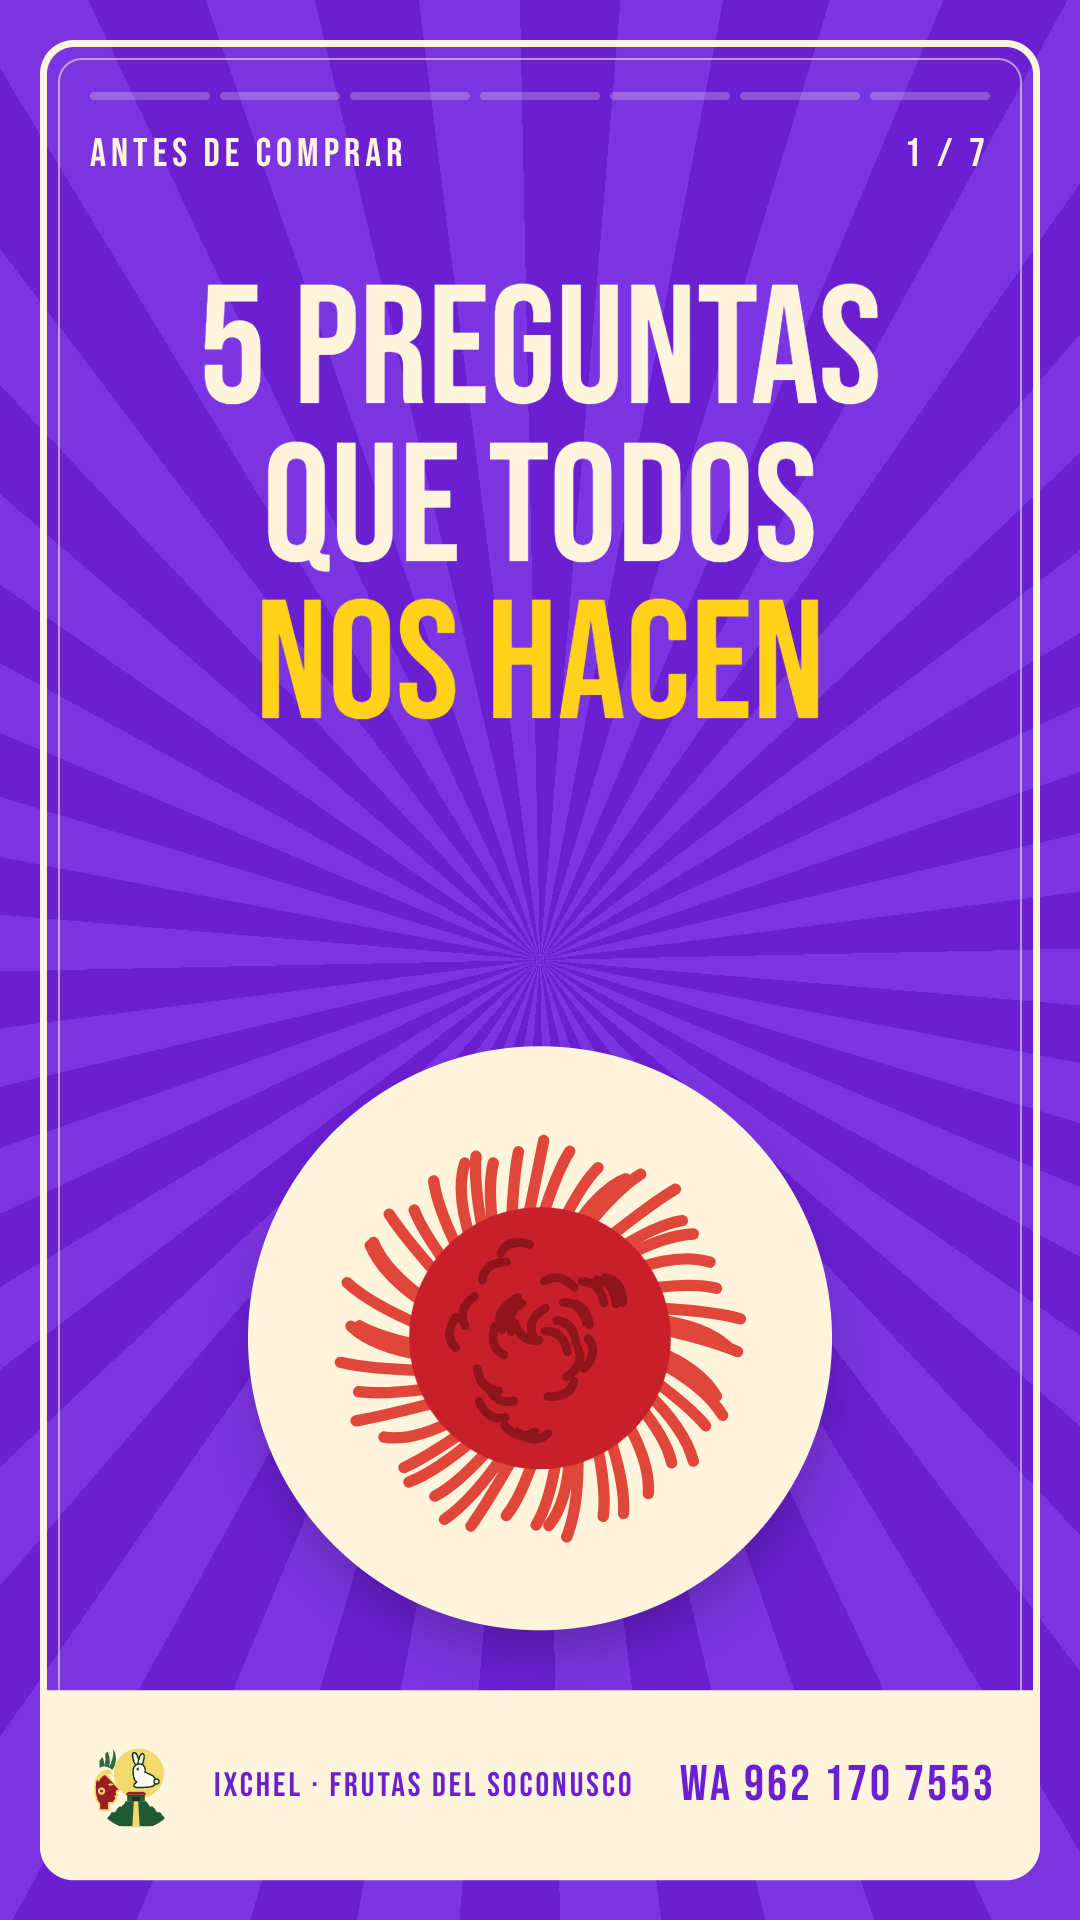
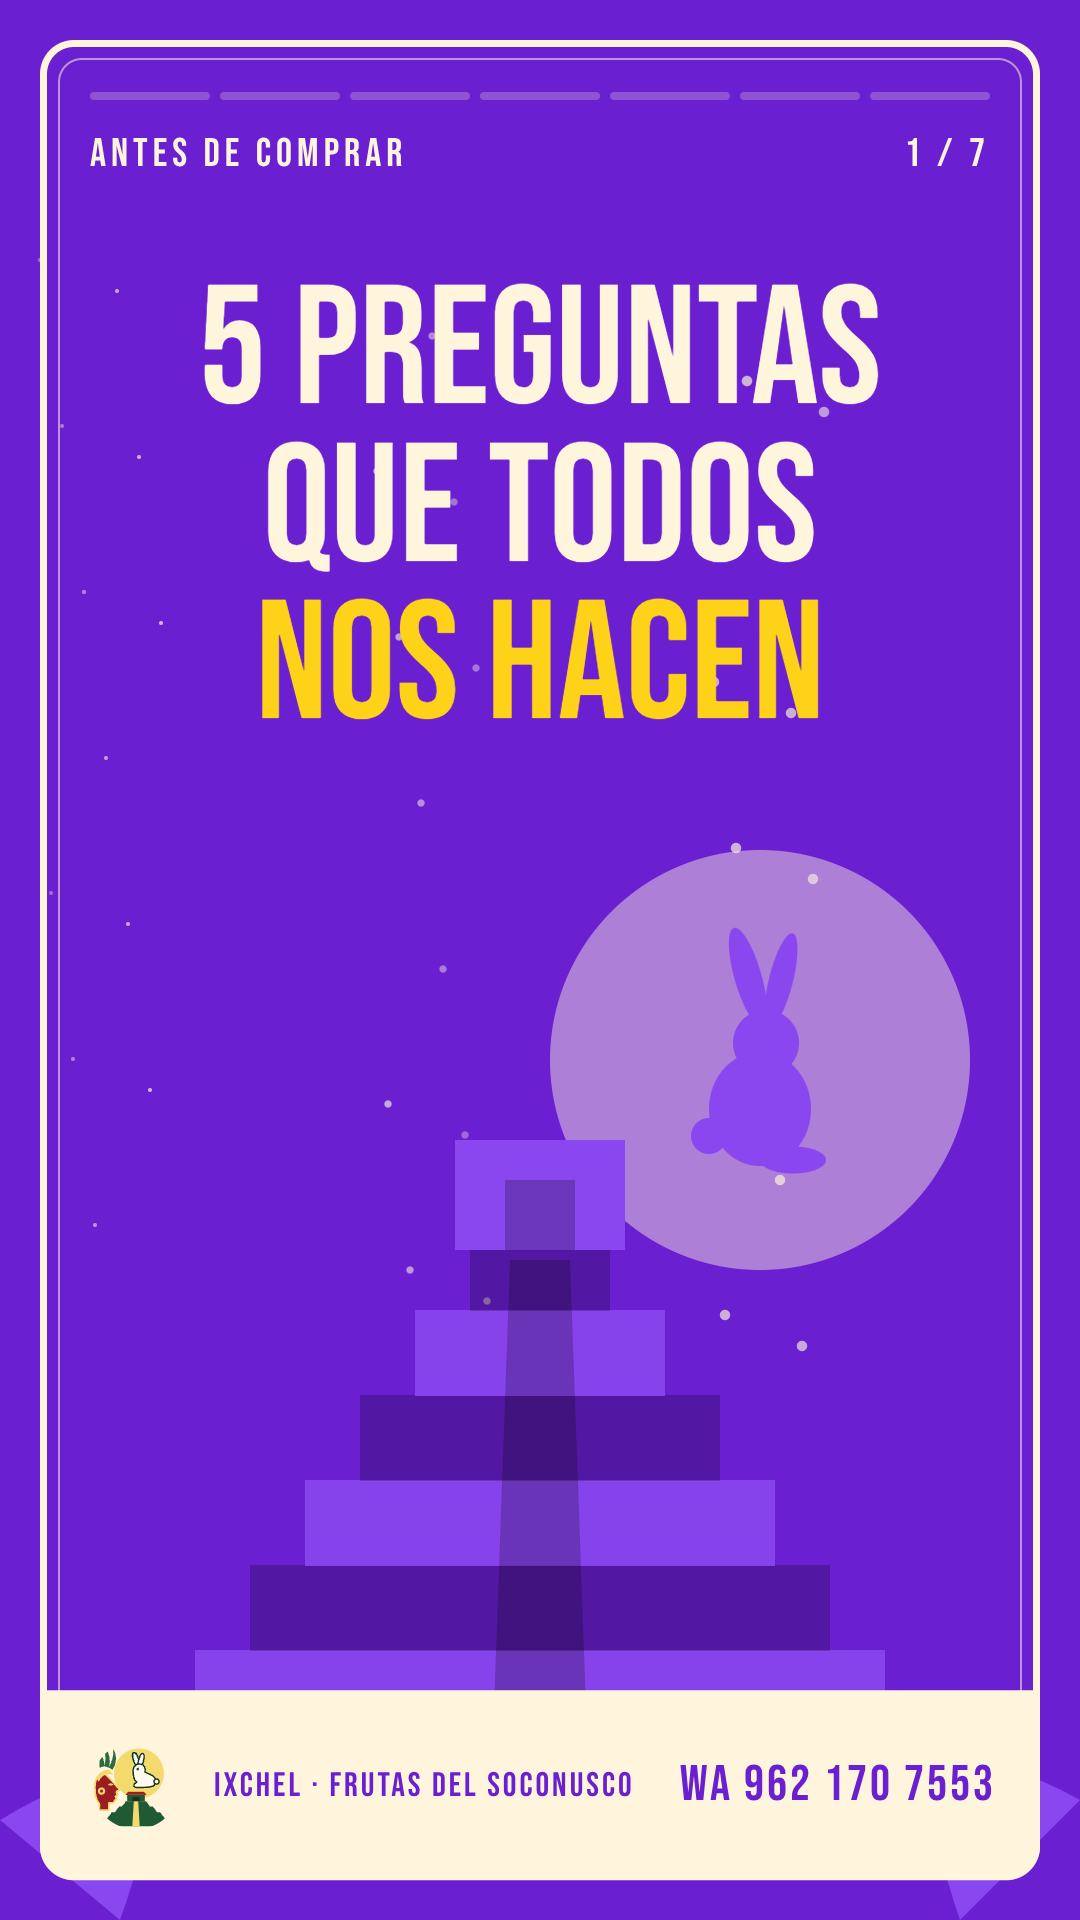
Carruseles con fondos mayas: pirámide, luna con conejo, selva y volcán
Claude-Session: https://claude.ai/code/session_015Q5dCHSDjBvXkXKVfiJs58

diff --git a/videos/src/Carrusel.tsx b/videos/src/Carrusel.tsx
@@ -27,6 +27,7 @@ export type Lamina = {
   fuente?: string;
   medallon?: 'esquina' | 'centro' | 'arriba' | 'logo';
   centrado?: boolean;
+  escena?: 'piramide' | 'luna' | 'selva' | 'volcan';
 };
 
 const pinta = (trozos: Trozo[]) =>
@@ -42,7 +43,7 @@ const Medallon: React.FC<{ t: number; fps: number; fg: string; donde: Lamina['me
     arriba: { width: 520, height: 520, left: 280, top: 230 },
     logo: { width: 0, height: 0 },
   };
-  if (donde === 'logo') return null;
+  if (donde !== 'arriba') return null;
   return (
     <div
       style={{
@@ -58,6 +59,87 @@ const Medallon: React.FC<{ t: number; fps: number; fg: string; donde: Lamina['me
     >
       <Img src={staticFile('fruta.svg')} style={{ width: '78%' }} />
     </div>
+  );
+};
+
+
+// Escenas de fondo: pirámide maya, luna con conejo, selva y volcán (se alternan por lámina).
+const ESCENAS = ['piramide', 'luna', 'selva', 'volcan'] as const;
+const Conejo: React.FC<{ x: number; y: number; k: number; c: string }> = ({ x, y, k, c }) => (
+  <g transform={`translate(${x} ${y}) scale(${k})`} fill={c}>
+    <ellipse cx="-8" cy="-62" rx="9" ry="34" transform="rotate(-16 -8 -62)" />
+    <ellipse cx="14" cy="-60" rx="8" ry="32" transform="rotate(14 14 -60)" />
+    <circle cx="4" cy="-18" r="22" />
+    <ellipse cx="0" cy="26" rx="34" ry="38" />
+    <circle cx="-34" cy="44" r="12" />
+    <ellipse cx="22" cy="60" rx="22" ry="9" />
+  </g>
+);
+const Estrellas: React.FC<{ c: string; t: number }> = ({ c, t }) => (
+  <g fill={c}>
+    {Array.from({ length: 34 }, (_, i) => {
+      const x = (i * 337) % 1000 + 40, y = (i * 211) % 1100 + 260;
+      return <circle key={i} cx={x} cy={y} r={2 + (i % 3) * 1.6} opacity={0.35 + 0.35 * Math.abs(Math.sin(t * 2 + i))} />;
+    })}
+  </g>
+);
+const Fondo: React.FC<{ tipo: (typeof ESCENAS)[number]; c: string; luz: string; t: number }> = ({ tipo, c, luz, t }) => {
+  const sombra = 'rgba(0,0,0,.22)';
+  return (
+    <svg viewBox="0 0 1080 1920" style={{ position: 'absolute', inset: 0, width: '100%', height: '100%' }}>
+      {tipo === 'piramide' && (
+        <g>
+          <Estrellas c={luz} t={t} />
+          <circle cx="760" cy="1060" r="210" fill={luz} opacity=".45" />
+          <Conejo x={760} y={1070} k={1.5} c={c} />
+          {[0, 1, 2, 3, 4, 5, 6].map((k) => (
+            <rect key={k} x={140 + k * 55} y={1820 - (k + 1) * 85} width={800 - k * 110} height="86" fill={k % 2 ? c : sombra} opacity={k % 2 ? 0.9 : 1} />
+          ))}
+          <rect x="455" y="1140" width="170" height="110" fill={c} />
+          <rect x="505" y="1180" width="70" height="70" fill={sombra} />
+          <polygon points="490,1820 590,1820 570,1260 510,1260" fill={sombra} />
+          <path d="M0 1820 Q200 1700 120 1920 Z M1080 1800 Q880 1690 960 1920 Z" fill={c} />
+        </g>
+      )}
+      {tipo === 'luna' && (
+        <g>
+          <Estrellas c={luz} t={t} />
+          <circle cx="540" cy="1230" r="380" fill={luz} opacity=".42" />
+          <circle cx="540" cy="1230" r="440" fill="none" stroke={luz} strokeWidth="6" opacity=".25" />
+          <Conejo x={540} y={1250} k={3.2} c={c} />
+          <path d="M0 1700 Q270 1600 540 1700 T1080 1680 V1920 H0 Z" fill={c} opacity=".85" />
+        </g>
+      )}
+      {tipo === 'selva' && (
+        <g>
+          {[[-60, 1500, 30, 1.6], [1140, 1450, 150, 1.5], [-40, 900, 60, 1.1], [1120, 900, 125, 1.0], [300, 1950, -10, 1.4], [800, 1980, 10, 1.3]].map(([x, y, r, k], i) => (
+            <g key={i} transform={`translate(${x} ${y}) rotate(${r + Math.sin(t * 1.3 + i) * 3}) scale(${k})`} fill={i % 2 ? c : sombra}>
+              <path d="M0 0 C60 -160 200 -260 340 -250 C300 -120 180 -20 0 0 Z" />
+              <path d="M0 0 C-20 -170 40 -330 150 -400 C170 -250 110 -90 0 0 Z" />
+              <path d="M0 0 C120 -60 280 -60 380 20 C260 80 120 60 0 0 Z" />
+            </g>
+          ))}
+          <circle cx="540" cy="1150" r="160" fill={luz} opacity=".35" />
+        </g>
+      )}
+      {tipo === 'volcan' && (
+        <g>
+          <circle cx="820" cy="900" r="120" fill={luz} opacity=".45" />
+          {[0, 1, 2].map((k) => (
+            <circle key={k} cx={560 + k * 40 + Math.sin(t + k) * 10} cy={1010 - k * 70 - (t * 12) % 30} r={60 + k * 25} fill={luz} opacity={0.22 - k * 0.05} />
+          ))}
+          <polygon points="80,1700 470,1080 650,1080 1040,1700" fill={c} opacity=".9" />
+          <polygon points="470,1080 650,1080 600,1160 560,1130 520,1170" fill={luz} opacity=".5" />
+          <path d="M0 1640 Q270 1540 540 1640 T1080 1600 V1920 H0 Z" fill={sombra} />
+          {[120, 300, 480, 660, 840, 1000].map((x, i) => (
+            <g key={i}>
+              <rect x={x - 8} y={1700 - (i % 2) * 30} width="16" height="70" fill={c} />
+              <circle cx={x} cy={1680 - (i % 2) * 30} r={55} fill={c} />
+            </g>
+          ))}
+        </g>
+      )}
+    </svg>
   );
 };
 
@@ -89,14 +171,7 @@ const LaminaVista: React.FC<{ l: Lamina; t: number; i: number; total: number }> 
         clipPath: i === 0 ? undefined : `circle(${abre * 130}% at 50% 55%)`,
       }}
     >
-      <div
-        style={{
-          position: 'absolute',
-          inset: -900,
-          background: `repeating-conic-gradient(from ${t * 9}deg at 50% 50%, ${l.ray} 0 6deg, transparent 6deg 12deg)`,
-          opacity: 0.55,
-        }}
-      />
+<Fondo tipo={l.escena ?? (l.medallon === 'logo' || l.medallon === 'arriba' ? 'selva' : ESCENAS[i % ESCENAS.length])} c={l.ray} luz={CREMA} t={t} />
       <div
         style={{
           position: 'absolute',
@@ -329,14 +404,14 @@ export const PREGUNTAS: Lamina[] = [
 ];
 
 export const SOCONUSCO: Lamina[] = [
-  { ...V('#14301a', CREMA, '#24502c'), arriba: 'ORIGEN', titulo: [['¿SABÍAS QUE'], [['NACE JUNTO', '#b8f02e']], [['A UN VOLCÁN?', '#ff5a6e']]], tam: 175, centrado: true, medallon: 'centro' },
-  { ...V('#ff5a1f', '#2b0a3d', '#ff8a3d'), arriba: 'EL VOLCÁN', grande: { texto: '4,060 M', cuenta: [0, 4060, ' M'], tam: 260 }, titulo: [['VOLCÁN TACANÁ']], tam: 120,
+  { ...V('#14301a', CREMA, '#24502c'), escena: 'luna', arriba: 'ORIGEN', titulo: [['¿SABÍAS QUE'], [['NACE JUNTO', '#b8f02e']], [['A UN VOLCÁN?', '#ff5a6e']]], tam: 175, centrado: true, medallon: 'centro' },
+  { ...V('#ff5a1f', '#2b0a3d', '#ff8a3d'), escena: 'volcan', arriba: 'EL VOLCÁN', grande: { texto: '4,060 M', cuenta: [0, 4060, ' M'], tam: 260 }, titulo: [['VOLCÁN TACANÁ']], tam: 120,
     cuerpo: ['Mide 4,060 metros y marca la frontera entre México y Guatemala. Sus faldas bajan hasta las huertas del Soconusco.'] },
-  { ...V('#00a6a6', '#062a2a', '#25c4c4'), arriba: 'LA ALTURA', grande: { texto: '100–700 M', color: CREMA, tam: 230 },
+  { ...V('#00a6a6', '#062a2a', '#25c4c4'), escena: 'selva', arriba: 'LA ALTURA', grande: { texto: '100–700 M', color: CREMA, tam: 230 },
     cuerpo: ['Es la altura donde se da el rambután en el Soconusco: tierra caliente, húmeda y fértil.'], fuente: 'Revista Chapingo, 2011.' },
-  { ...V('#e6007e', CREMA, '#ff3ca0'), arriba: 'LA HISTORIA', titulo: [['ZONA ARQUEOLÓGICA'], [['IZAPA', ORO]]], tam: 170,
+  { ...V('#e6007e', CREMA, '#ff3ca0'), escena: 'piramide', arriba: 'LA HISTORIA', titulo: [['ZONA ARQUEOLÓGICA'], [['IZAPA', ORO]]], tam: 170,
     cuerpo: ['Tuxtla Chico guarda Izapa, uno de los sitios más antiguos de Mesoamérica, hoy rodeado de huertas.'], fuente: 'INAH.' },
-  { ...V('#ffc21a', '#3a0d0d', '#ffd75a'), arriba: 'LA PRODUCCIÓN', titulo: [['CHIAPAS ES EL'], [['CENTRO', '#c8202b']], ['DEL RAMBUTÁN']], tam: 180,
+  { ...V('#ffc21a', '#3a0d0d', '#ffd75a'), escena: 'luna', arriba: 'LA PRODUCCIÓN', titulo: [['CHIAPAS ES EL'], [['CENTRO', '#c8202b']], ['DEL RAMBUTÁN']], tam: 180,
     cuerpo: ['Tuxtla Chico, Metapa y Cacahoatán están en el corazón de la producción de México.'], fuente: 'Revista Chapingo, 2011; FreshPlaza, 2019.' },
   { ...V('#b8f02e', '#14301a', '#d2ff5c'), arriba: 'IXCHEL', titulo: [['DEL SOCONUSCO'], ['A TU BODEGA']], tam: 160, centrado: true, medallon: 'arriba',
     cuerpo: ['Por tonelada o por cajas. WhatsApp 962 170 7553 · ventasixchelfrutas@gmail.com · oscar20001.github.io/rambutan-chiapas'] },
